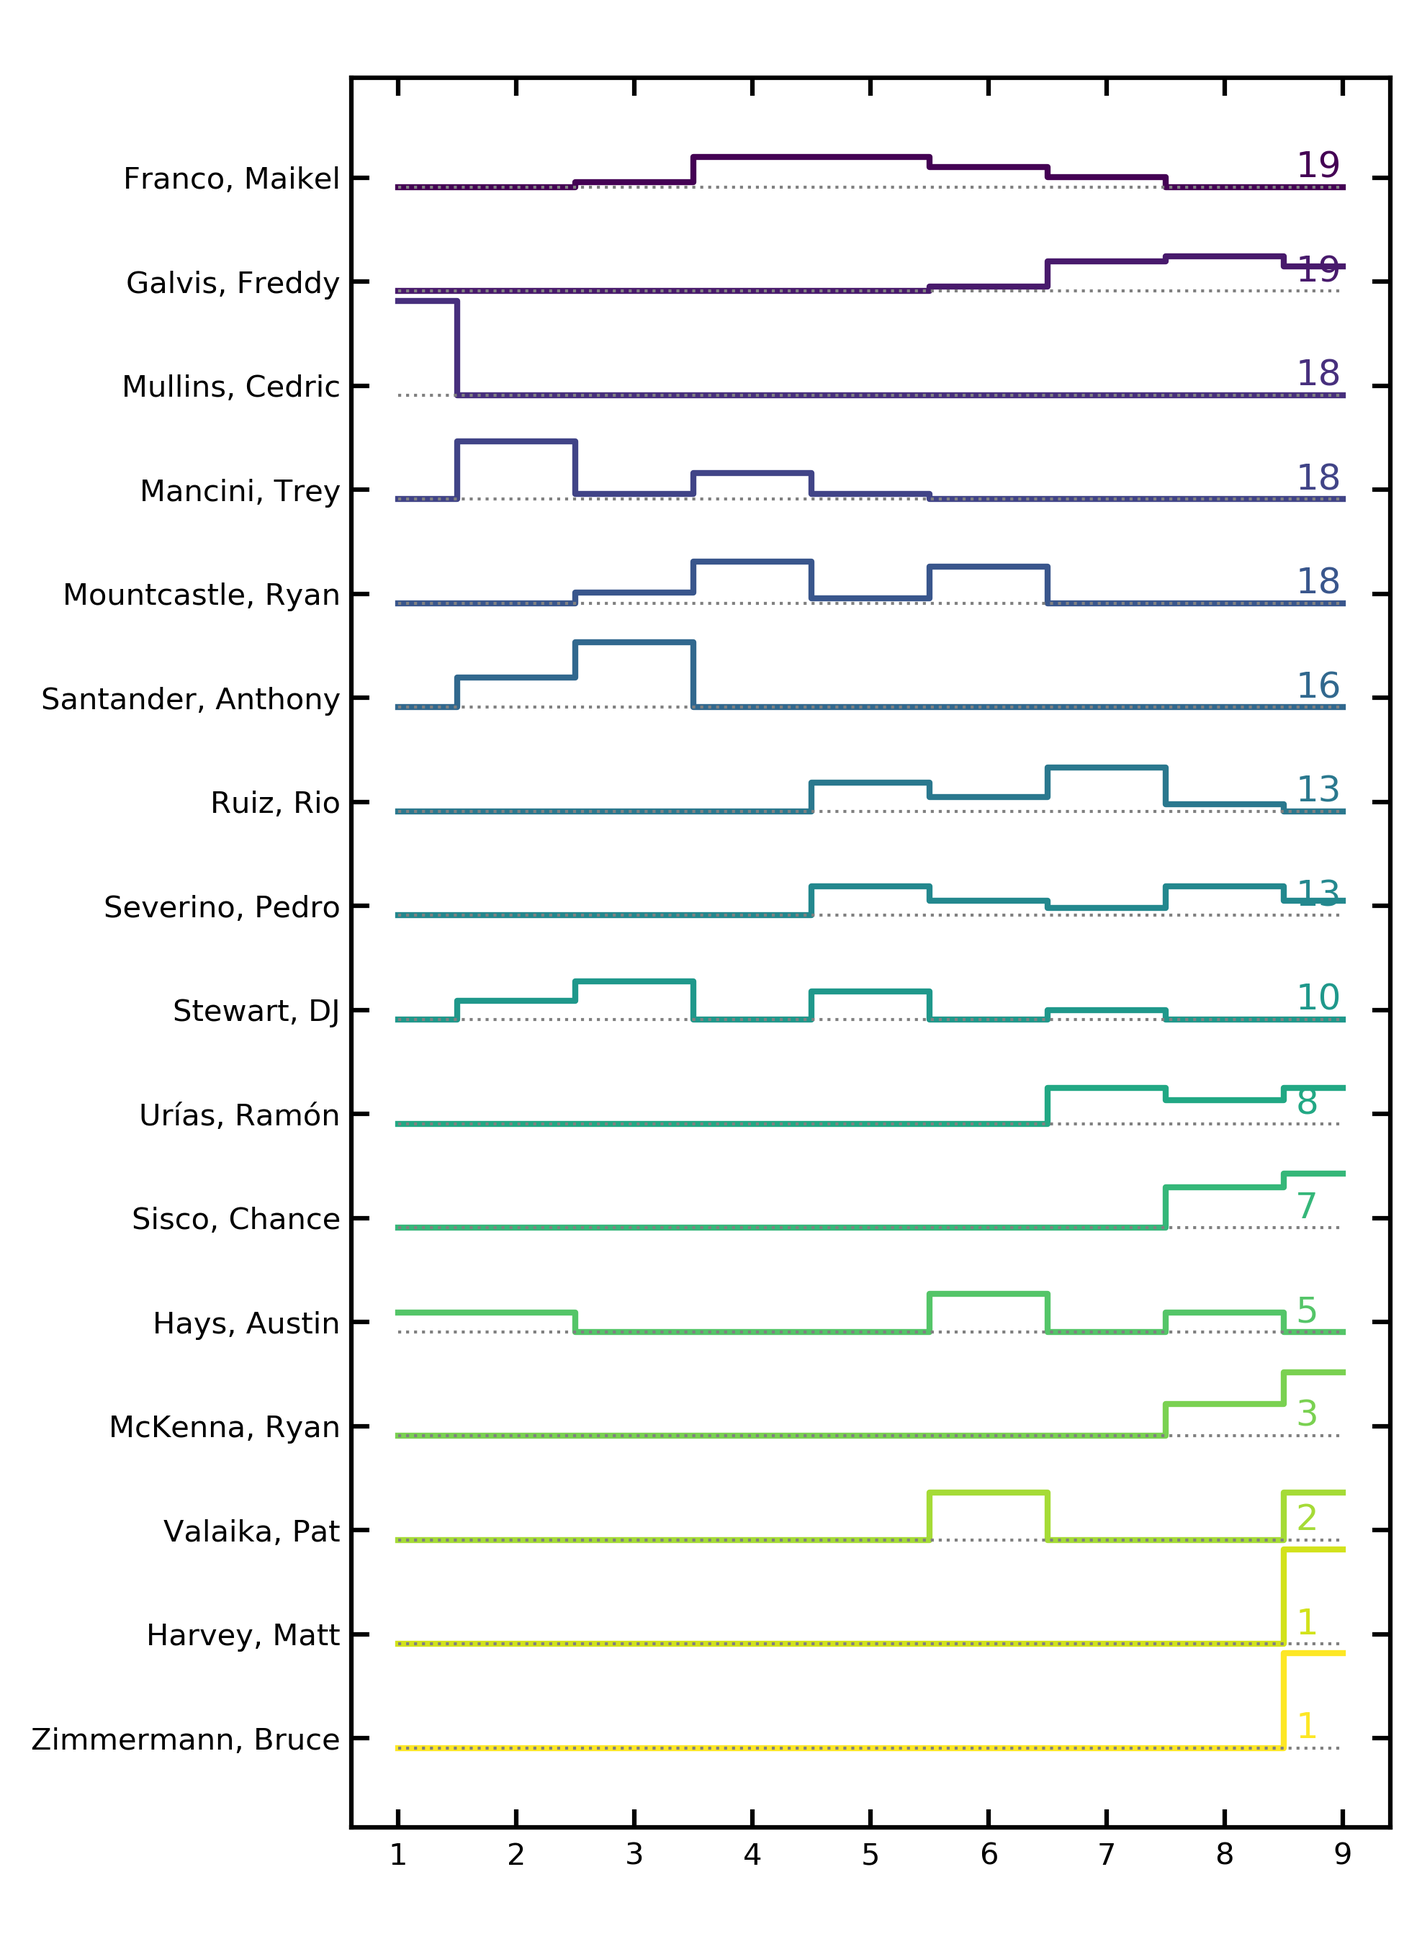
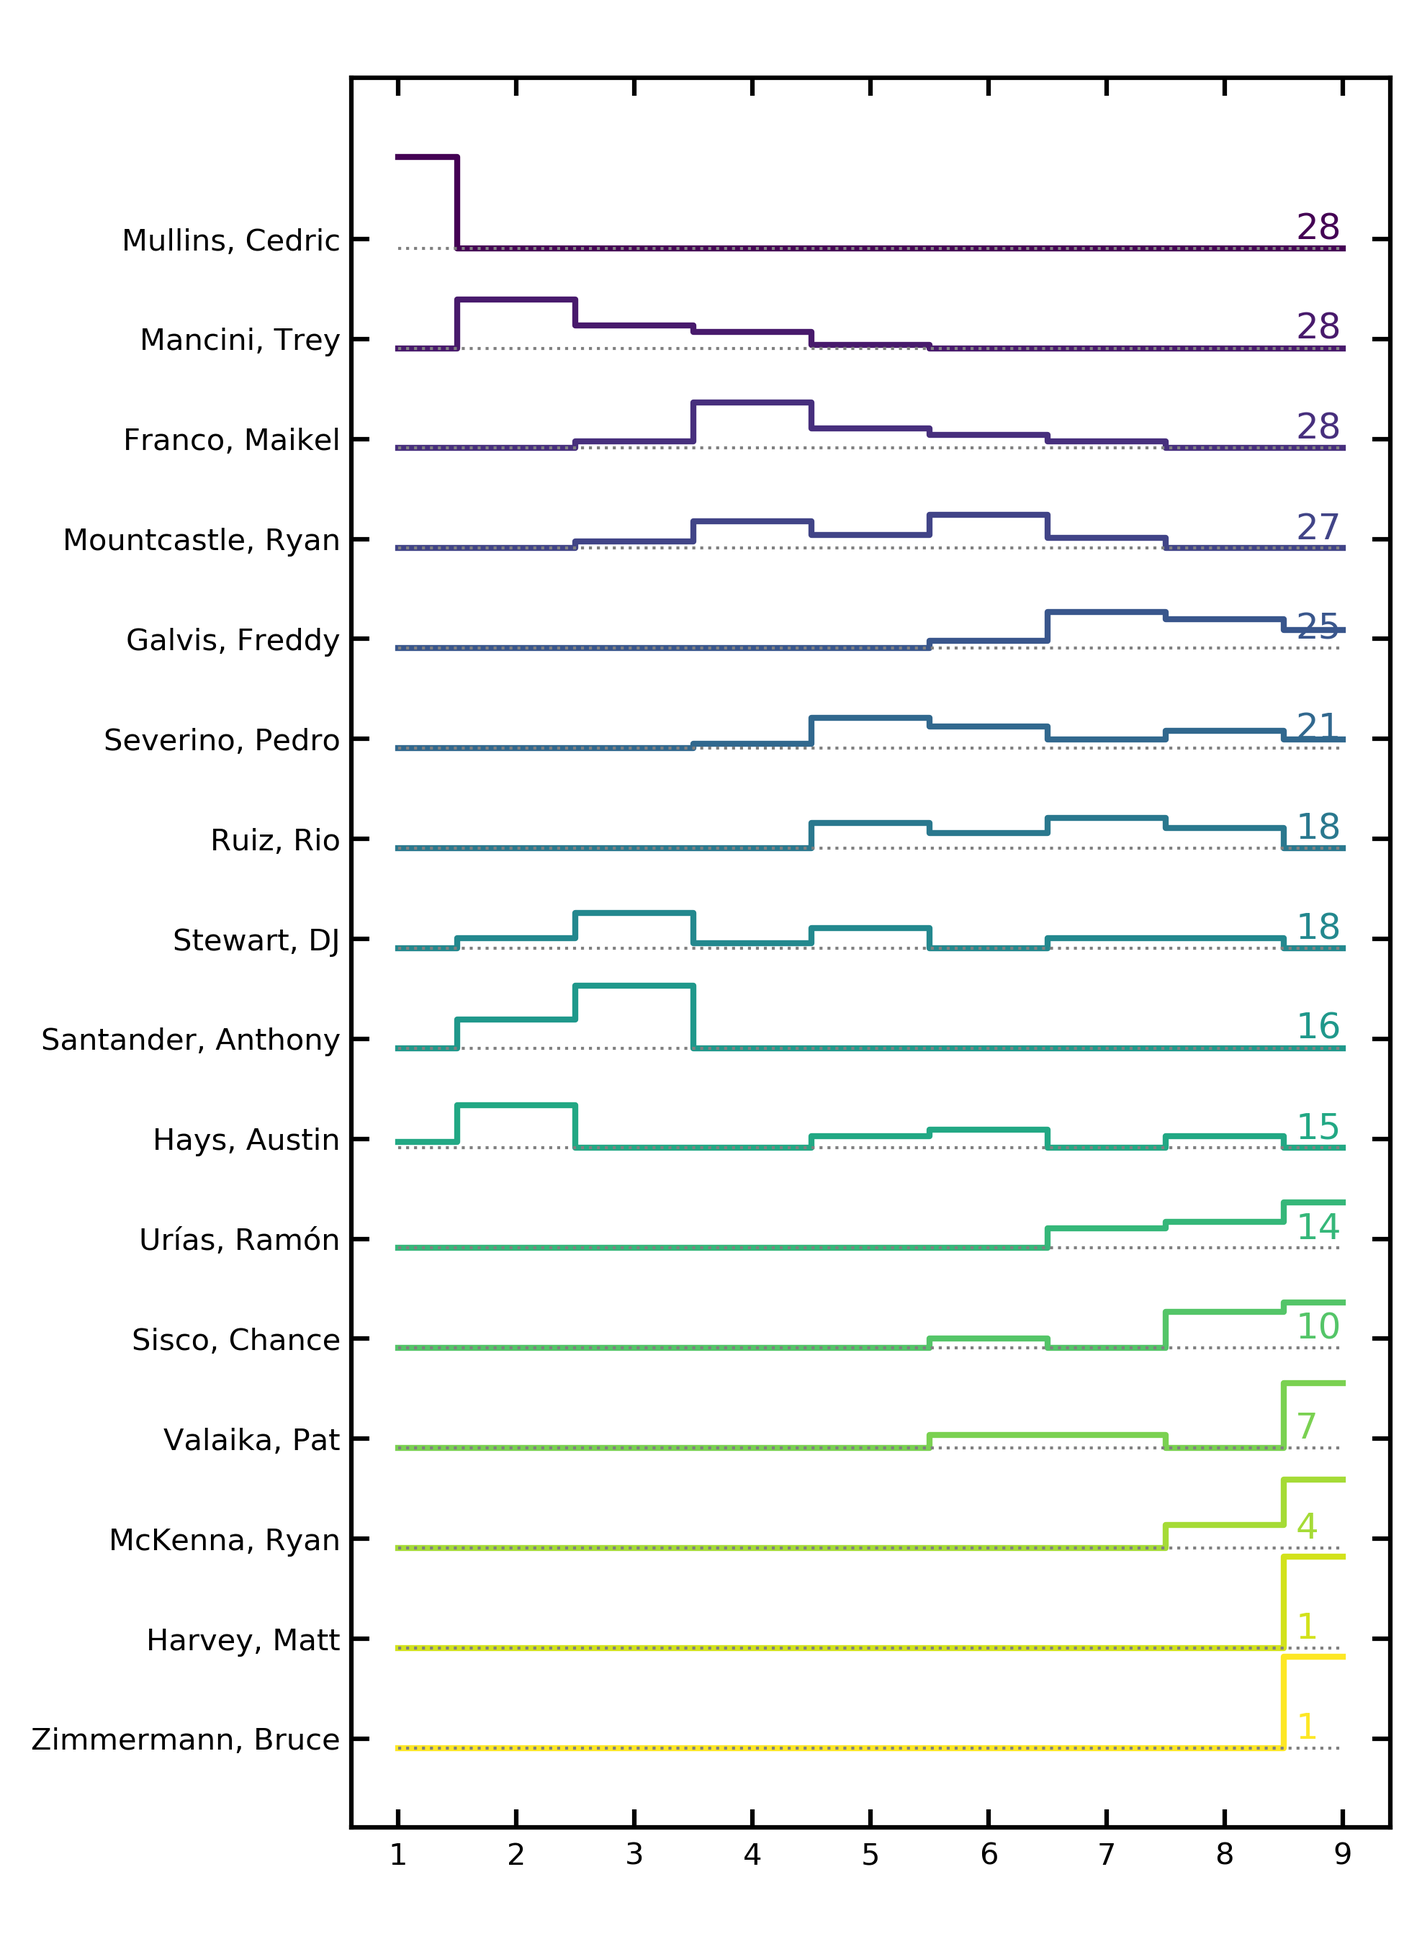
lineup updates

diff --git a/Lineups/lineup2021.html b/Lineups/lineup2021.html
@@ -12,36 +12,36 @@
   <p>For each team, what is the "typical" 2021 lineup?</p>
 <table id="customers">
 <tr><th>Team</th><th>1st</th><th>2nd</th><th>3rd</th><th>4th</th><th>5th</th><th>6th</th><th>7th</th><th>8th</th><th>9th</th><th>Similarity</th><th>First Appeared</th></tr>
-<tr><td><a href="figures/2021LAAorder.png">LAA</a></td><td>Fletcher, David</td><td>Ohtani, Shohei</td><td>Trout, Mike</td><td>Rendon, Anthony</td><td>Walsh, Jared</td><td>Upton, Justin</td><td>Iglesias, José</td><td>Suzuki, Kurt</td><td>Fowler, Dexter</td><td>4.36</td><td>3</td></tr>
-<tr><td><a href="figures/2021HOUorder.png">HOU</a></td><td>Altuve, Jose</td><td>Brantley, Michael</td><td>Bregman, Alex</td><td>Alvarez, Yordan</td><td>Correa, Carlos</td><td>Gurriel, Yuli</td><td>Tucker, Kyle</td><td>Straw, Myles</td><td>Maldonado, Martín</td><td>3.42</td><td>10</td></tr>
-<tr><td><a href="figures/2021OAKorder.png">OAK</a></td><td>Canha, Mark</td><td>Laureano, Ramón</td><td>Lowrie, Jed</td><td>Olson, Matt</td><td>Chapman, Matt</td><td>Piscotty, Stephen</td><td>Brown, Seth</td><td>Andrus, Elvis</td><td>Garcia, Aramis</td><td>2.9</td><td>9</td></tr>
-<tr><td><a href="figures/2021TORorder.png">TOR</a></td><td>Semien, Marcus</td><td>Bichette, Bo</td><td>Guerrero Jr., Vladimir</td><td>Grichuk, Randal</td><td>Biggio, Cavan</td><td>Gurriel Jr., Lourdes</td><td>Tellez, Rowdy</td><td>Kirk, Alejandro</td><td>Palacios, Josh</td><td>3.11</td><td>10</td></tr>
-<tr><td><a href="figures/2021ATLorder.png">ATL</a></td><td>Acuña Jr., Ronald</td><td>Albies, Ozzie</td><td>Freeman, Freddie</td><td>Ozuna, Marcell</td><td>d'Arnaud, Travis</td><td>Swanson, Dansby</td><td>Riley, Austin</td><td>Pache, Cristian</td><td>Anderson, Ian</td><td>3.11</td><td>3</td></tr>
-<tr><td><a href="figures/2021MILorder.png">MIL</a></td><td>Wong, Kolten</td><td>Hiura, Keston</td><td>Yelich, Christian</td><td>Shaw, Travis</td><td>Bradley Jr., Jackie</td><td>Cain, Lorenzo</td><td>Narváez, Omar</td><td>Urías, Luis</td><td>Burnes, Corbin</td><td>2.16</td><td>7</td></tr>
-<tr><td><a href="figures/2021STLorder.png">STL</a></td><td>Edman, Tommy</td><td>Goldschmidt, Paul</td><td>Arenado, Nolan</td><td>DeJong, Paul</td><td>O'Neill, Tyler</td><td>Molina, Yadier</td><td>Carlson, Dylan</td><td>Williams, Justin</td><td>Wainwright, Adam</td><td>4.0</td><td>2</td></tr>
-<tr><td><a href="figures/2021CHCorder.png">CHC</a></td><td>Happ, Ian</td><td>Contreras, Willson</td><td>Rizzo, Anthony</td><td>Bryant, Kris</td><td>Pederson, Joc</td><td>Báez, Javier</td><td>Heyward, Jason</td><td>Bote, David</td><td>Hendricks, Kyle</td><td>5.16</td><td>1</td></tr>
-<tr><td><a href="figures/2021ARIorder.png">ARI</a></td><td>Locastro, Tim</td><td>Calhoun, Kole</td><td>Walker, Christian</td><td>Peralta, David</td><td>Cabrera, Asdrúbal</td><td>Escobar, Eduardo</td><td>Ahmed, Nick</td><td>Vogt, Stephen</td><td>Smith, Riley</td><td>2.79</td><td>9</td></tr>
-<tr><td><a href="figures/2021LADorder.png">LAD</a></td><td>Betts, Mookie</td><td>Seager, Corey</td><td>Turner, Justin</td><td>Smith, Will</td><td>Muncy, Max</td><td>Taylor, Chris</td><td>McKinstry, Zach</td><td>Raley, Luke</td><td>Buehler, Walker</td><td>3.08</td><td>14</td></tr>
-<tr><td><a href="figures/2021SForder.png">SF</a></td><td>La Stella, Tommy</td><td>Yastrzemski, Mike</td><td>Dickerson, Alex</td><td>Belt, Brandon</td><td>Longoria, Evan</td><td>Crawford, Brandon</td><td>Posey, Buster</td><td>Dubón, Mauricio</td><td>Webb, Logan</td><td>2.28</td><td>8</td></tr>
-<tr><td><a href="figures/2021CLEorder.png">CLE</a></td><td>Luplow, Jordan</td><td>Hernandez, Cesar</td><td>Ramírez, José</td><td>Rosario, Eddie</td><td>Reyes, Franmil</td><td>Naylor, Josh</td><td>Bauers, Jake</td><td>Pérez, Roberto</td><td>Giménez, Andrés</td><td>4.5</td><td>17</td></tr>
-<tr><td><a href="figures/2021SEAorder.png">SEA</a></td><td>Haniger, Mitch</td><td>France, Ty</td><td>Seager, Kyle</td><td>Marmolejos, José</td><td>Torrens, Luis</td><td>Moore, Dylan</td><td>Trammell, Taylor</td><td>Haggerty, Sam</td><td>Crawford, J.P.</td><td>4.21</td><td>8</td></tr>
-<tr><td><a href="figures/2021MIAorder.png">MIA</a></td><td>Dickerson, Corey</td><td>Marte, Starling</td><td>Aguilar, Jesús</td><td>Cooper, Garrett</td><td>Anderson, Brian</td><td>Chisholm Jr., Jazz</td><td>Berti, Jon</td><td>Wallach, Chad</td><td>López, Pablo</td><td>3.32</td><td>6</td></tr>
-<tr><td><a href="figures/2021NYMorder.png">NYM</a></td><td>Nimmo, Brandon</td><td>Lindor, Francisco</td><td>Smith, Dominic</td><td>Alonso, Pete</td><td>McNeil, Jeff</td><td>Conforto, Michael</td><td>Davis, J.D.</td><td>McCann, James</td><td>deGrom, Jacob</td><td>3.67</td><td>9</td></tr>
-<tr><td><a href="figures/2021WSHorder.png">WSH</a></td><td>Turner, Trea</td><td>Soto, Juan</td><td>Bell, Josh</td><td>Schwarber, Kyle</td><td>Harrison, Josh</td><td>Castro, Starlin</td><td>Gomes, Yan</td><td>Robles, Victor</td><td>Ross, Joe</td><td>2.12</td><td>14</td></tr>
-<tr><td><a href="figures/2021BALorder.png">BAL</a></td><td>Mullins, Cedric</td><td>Mancini, Trey</td><td>Santander, Anthony</td><td>Mountcastle, Ryan</td><td>Franco, Maikel</td><td>Severino, Pedro</td><td>Ruiz, Rio</td><td>Galvis, Freddy</td><td>Urías, Ramón</td><td>2.89</td><td>6</td></tr>
-<tr><td><a href="figures/2021SDorder.png">SD</a></td><td>Grisham, Trent</td><td>Profar, Jurickson</td><td>Machado, Manny</td><td>Hosmer, Eric</td><td>Myers, Wil</td><td>Cronenworth, Jake</td><td>Pham, Tommy</td><td>Caratini, Victor</td><td>Kim, Ha-Seong</td><td>2.48</td><td>10</td></tr>
-<tr><td><a href="figures/2021PHIorder.png">PHI</a></td><td>McCutchen, Andrew</td><td>Hoskins, Rhys</td><td>Harper, Bryce</td><td>Realmuto, J.T.</td><td>Bohm, Alec</td><td>Gregorius, Didi</td><td>Segura, Jean</td><td>Haseley, Adam</td><td>Nola, Aaron</td><td>4.37</td><td>1</td></tr>
-<tr><td><a href="figures/2021PITorder.png">PIT</a></td><td>Frazier, Adam</td><td>Evans, Phillip</td><td>Reynolds, Bryan</td><td>Moran, Colin</td><td>González, Erik</td><td>Polanco, Gregory</td><td>Stallings, Jacob</td><td>Fowler, Dustin</td><td>Brubaker, JT</td><td>4.18</td><td>4</td></tr>
-<tr><td><a href="figures/2021TEXorder.png">TEX</a></td><td>Kiner-Falefa, Isiah</td><td>Dahl, David</td><td>Gallo, Joey</td><td>García, Adolis</td><td>Lowe, Nate</td><td>Solak, Nick</td><td>Heim, Jonah</td><td>Culberson, Charlie</td><td>Taveras, Leody</td><td>3.35</td><td>12</td></tr>
-<tr><td><a href="figures/2021TBorder.png">TB</a></td><td>Tsutsugo, Yoshi</td><td>Meadows, Austin</td><td>Arozarena, Randy</td><td>Lowe, Brandon</td><td>Díaz, Yandy</td><td>Wendle, Joey</td><td>Adames, Willy</td><td>Phillips, Brett</td><td>Zunino, Mike</td><td>1.88</td><td>7</td></tr>
-<tr><td><a href="figures/2021BOSorder.png">BOS</a></td><td>Hernández, Enrique</td><td>Verdugo, Alex</td><td>Martinez, J.D.</td><td>Bogaerts, Xander</td><td>Devers, Rafael</td><td>Vázquez, Christian</td><td>Gonzalez, Marwin</td><td>Dalbec, Bobby</td><td>Cordero, Franchy</td><td>4.81</td><td>9</td></tr>
-<tr><td><a href="figures/2021CINorder.png">CIN</a></td><td>Winker, Jesse</td><td>Castellanos, Nick</td><td>Votto, Joey</td><td>Suárez, Eugenio</td><td>Moustakas, Mike</td><td>Senzel, Nick</td><td>India, Jonathan</td><td>Barnhart, Tucker</td><td>Castillo, Luis</td><td>4.71</td><td>1</td></tr>
-<tr><td><a href="figures/2021COLorder.png">COL</a></td><td>Hampson, Garrett</td><td>McMahon, Ryan</td><td>Story, Trevor</td><td>Blackmon, Charlie</td><td>Cron, C.J.</td><td>Tapia, Raimel</td><td>Fuentes, Josh</td><td>Nuñez, Dom</td><td>Gomber, Austin</td><td>3.84</td><td>8</td></tr>
-<tr><td><a href="figures/2021KCorder.png">KC</a></td><td>Merrifield, Whit</td><td>Benintendi, Andrew</td><td>Perez, Salvador</td><td>Santana, Carlos</td><td>Soler, Jorge</td><td>Taylor, Michael A.</td><td>Isbel, Kyle</td><td>Alberto, Hanser</td><td>Lopez, Nicky</td><td>4.61</td><td>8</td></tr>
-<tr><td><a href="figures/2021DETorder.png">DET</a></td><td>Grossman, Robbie</td><td>Castro, Willi</td><td>Candelario, Jeimer</td><td>Ramos, Wilson</td><td>Mazara, Nomar</td><td>Schoop, Jonathan</td><td>Núñez, Renato</td><td>Baddoo, Akil</td><td>Greiner, Grayson</td><td>2.25</td><td>10</td></tr>
-<tr><td><a href="figures/2021MINorder.png">MIN</a></td><td>Arraez, Luis</td><td>Polanco, Jorge</td><td>Cruz, Nelson</td><td>Buxton, Byron</td><td>Kepler, Max</td><td>Sanó, Miguel</td><td>Cave, Jake</td><td>Jeffers, Ryan</td><td>Simmons, Andrelton</td><td>2.03</td><td>9</td></tr>
-<tr><td><a href="figures/2021CWSorder.png">CWS</a></td><td>Anderson, Tim</td><td>Eaton, Adam</td><td>Abreu, José</td><td>Moncada, Yoán</td><td>Mercedes, Yermín</td><td>Grandal, Yasmani</td><td>Robert, Luis</td><td>Vaughn, Andrew</td><td>Madrigal, Nick</td><td>3.05</td><td>13</td></tr>
-<tr><td><a href="figures/2021NYYorder.png">NYY</a></td><td>LeMahieu, DJ</td><td>Judge, Aaron</td><td>Hicks, Aaron</td><td>Stanton, Giancarlo</td><td>Torres, Gleyber</td><td>Bruce, Jay</td><td>Sánchez, Gary</td><td>Urshela, Gio</td><td>Frazier, Clint</td><td>2.95</td><td>2</td></tr>
+<tr><td><a href="figures/2021LAAorder.png">LAA</a></td><td>Fletcher, David</td><td>Ohtani, Shohei</td><td>Trout, Mike</td><td>Rendon, Anthony</td><td>Walsh, Jared</td><td>Upton, Justin</td><td>Iglesias, José</td><td>Suzuki, Kurt</td><td>Fowler, Dexter</td><td>4.41</td><td>3</td></tr>
+<tr><td><a href="figures/2021HOUorder.png">HOU</a></td><td>Altuve, Jose</td><td>Brantley, Michael</td><td>Bregman, Alex</td><td>Alvarez, Yordan</td><td>Gurriel, Yuli</td><td>Correa, Carlos</td><td>Tucker, Kyle</td><td>Straw, Myles</td><td>Maldonado, Martín</td><td>3.89</td><td>8</td></tr>
+<tr><td><a href="figures/2021OAKorder.png">OAK</a></td><td>Canha, Mark</td><td>Laureano, Ramón</td><td>Lowrie, Jed</td><td>Olson, Matt</td><td>Chapman, Matt</td><td>Piscotty, Stephen</td><td>Brown, Seth</td><td>Andrus, Elvis</td><td>Garcia, Aramis</td><td>2.93</td><td>9</td></tr>
+<tr><td><a href="figures/2021TORorder.png">TOR</a></td><td>Semien, Marcus</td><td>Bichette, Bo</td><td>Guerrero Jr., Vladimir</td><td>Grichuk, Randal</td><td>Biggio, Cavan</td><td>Gurriel Jr., Lourdes</td><td>Tellez, Rowdy</td><td>Palacios, Josh</td><td>Jansen, Danny</td><td>2.74</td><td>13</td></tr>
+<tr><td><a href="figures/2021ATLorder.png">ATL</a></td><td>Acuña Jr., Ronald</td><td>Freeman, Freddie</td><td>Ozuna, Marcell</td><td>Albies, Ozzie</td><td>d'Arnaud, Travis</td><td>Swanson, Dansby</td><td>Riley, Austin</td><td>Heredia, Guillermo</td><td>Anderson, Ian</td><td>3.62</td><td>23</td></tr>
+<tr><td><a href="figures/2021MILorder.png">MIL</a></td><td>Wong, Kolten</td><td>Vogelbach, Daniel</td><td>Yelich, Christian</td><td>Shaw, Travis</td><td>Bradley Jr., Jackie</td><td>García, Avisaíl</td><td>Narváez, Omar</td><td>Urías, Luis</td><td>Peralta, Freddy</td><td>1.9</td><td>5</td></tr>
+<tr><td><a href="figures/2021STLorder.png">STL</a></td><td>Edman, Tommy</td><td>Goldschmidt, Paul</td><td>Arenado, Nolan</td><td>DeJong, Paul</td><td>O'Neill, Tyler</td><td>Molina, Yadier</td><td>Carlson, Dylan</td><td>Williams, Justin</td><td>Wainwright, Adam</td><td>2.97</td><td>2</td></tr>
+<tr><td><a href="figures/2021CHCorder.png">CHC</a></td><td>Happ, Ian</td><td>Contreras, Willson</td><td>Rizzo, Anthony</td><td>Bryant, Kris</td><td>Pederson, Joc</td><td>Báez, Javier</td><td>Heyward, Jason</td><td>Bote, David</td><td>Davies, Zach</td><td>2.75</td><td>8</td></tr>
+<tr><td><a href="figures/2021ARIorder.png">ARI</a></td><td>Smith, Pavin</td><td>Calhoun, Kole</td><td>Cabrera, Asdrúbal</td><td>Peralta, David</td><td>Kelly, Carson</td><td>Escobar, Eduardo</td><td>Ahmed, Nick</td><td>Heath, Nick</td><td>Kelly, Merrill</td><td>2.52</td><td>22</td></tr>
+<tr><td><a href="figures/2021LADorder.png">LAD</a></td><td>Betts, Mookie</td><td>Seager, Corey</td><td>Turner, Justin</td><td>Muncy, Max</td><td>Taylor, Chris</td><td>McKinstry, Zach</td><td>Raley, Luke</td><td>Barnes, Austin</td><td>Kershaw, Clayton</td><td>3.21</td><td>15</td></tr>
+<tr><td><a href="figures/2021SForder.png">SF</a></td><td>La Stella, Tommy</td><td>Yastrzemski, Mike</td><td>Flores, Wilmer</td><td>Belt, Brandon</td><td>Dickerson, Alex</td><td>Posey, Buster</td><td>Slater, Austin</td><td>Dubón, Mauricio</td><td>Gausman, Kevin</td><td>1.98</td><td>21</td></tr>
+<tr><td><a href="figures/2021CLEorder.png">CLE</a></td><td>Luplow, Jordan</td><td>Hernandez, Cesar</td><td>Ramírez, José</td><td>Rosario, Eddie</td><td>Reyes, Franmil</td><td>Naylor, Josh</td><td>Bauers, Jake</td><td>Pérez, Roberto</td><td>Giménez, Andrés</td><td>3.74</td><td>17</td></tr>
+<tr><td><a href="figures/2021SEAorder.png">SEA</a></td><td>Haniger, Mitch</td><td>France, Ty</td><td>Seager, Kyle</td><td>Marmolejos, José</td><td>White, Evan</td><td>Moore, Dylan</td><td>Trammell, Taylor</td><td>Murphy, Tom</td><td>Crawford, J.P.</td><td>4.24</td><td>15</td></tr>
+<tr><td><a href="figures/2021MIAorder.png">MIA</a></td><td>Dickerson, Corey</td><td>Marte, Starling</td><td>Aguilar, Jesús</td><td>Cooper, Garrett</td><td>Anderson, Brian</td><td>Chisholm Jr., Jazz</td><td>Berti, Jon</td><td>Wallach, Chad</td><td>Rogers, Trevor</td><td>2.52</td><td>12</td></tr>
+<tr><td><a href="figures/2021NYMorder.png">NYM</a></td><td>Nimmo, Brandon</td><td>Lindor, Francisco</td><td>Smith, Dominic</td><td>Alonso, Pete</td><td>Conforto, Michael</td><td>Davis, J.D.</td><td>McNeil, Jeff</td><td>McCann, James</td><td>Stroman, Marcus</td><td>3.35</td><td>16</td></tr>
+<tr><td><a href="figures/2021WSHorder.png">WSH</a></td><td>Stevenson, Andrew</td><td>Harrison, Josh</td><td>Turner, Trea</td><td>Bell, Josh</td><td>Schwarber, Kyle</td><td>Castro, Starlin</td><td>Gomes, Yan</td><td>Robles, Victor</td><td>Corbin, Patrick</td><td>1.81</td><td>15</td></tr>
+<tr><td><a href="figures/2021BALorder.png">BAL</a></td><td>Mullins, Cedric</td><td>Mancini, Trey</td><td>Santander, Anthony</td><td>Franco, Maikel</td><td>Severino, Pedro</td><td>Mountcastle, Ryan</td><td>Stewart, DJ</td><td>Urías, Ramón</td><td>Galvis, Freddy</td><td>2.52</td><td>10</td></tr>
+<tr><td><a href="figures/2021SDorder.png">SD</a></td><td>Tatis Jr., Fernando</td><td>Grisham, Trent</td><td>Machado, Manny</td><td>Hosmer, Eric</td><td>Myers, Wil</td><td>Cronenworth, Jake</td><td>Profar, Jurickson</td><td>Caratini, Victor</td><td>Snell, Blake</td><td>2.78</td><td>23</td></tr>
+<tr><td><a href="figures/2021PHIorder.png">PHI</a></td><td>McCutchen, Andrew</td><td>Hoskins, Rhys</td><td>Harper, Bryce</td><td>Realmuto, J.T.</td><td>Bohm, Alec</td><td>Gregorius, Didi</td><td>Segura, Jean</td><td>Quinn, Roman</td><td>Wheeler, Zack</td><td>3.69</td><td>2</td></tr>
+<tr><td><a href="figures/2021PITorder.png">PIT</a></td><td>Frazier, Adam</td><td>Evans, Phillip</td><td>Reynolds, Bryan</td><td>Moran, Colin</td><td>González, Erik</td><td>Polanco, Gregory</td><td>Stallings, Jacob</td><td>Fowler, Dustin</td><td>Brubaker, JT</td><td>3.88</td><td>4</td></tr>
+<tr><td><a href="figures/2021TEXorder.png">TEX</a></td><td>Kiner-Falefa, Isiah</td><td>Dahl, David</td><td>Gallo, Joey</td><td>García, Adolis</td><td>Lowe, Nate</td><td>Solak, Nick</td><td>Heim, Jonah</td><td>Culberson, Charlie</td><td>Taveras, Leody</td><td>2.8</td><td>12</td></tr>
+<tr><td><a href="figures/2021TBorder.png">TB</a></td><td>Tsutsugo, Yoshi</td><td>Meadows, Austin</td><td>Arozarena, Randy</td><td>Lowe, Brandon</td><td>Díaz, Yandy</td><td>Wendle, Joey</td><td>Adames, Willy</td><td>Phillips, Brett</td><td>Zunino, Mike</td><td>1.7</td><td>7</td></tr>
+<tr><td><a href="figures/2021BOSorder.png">BOS</a></td><td>Hernández, Enrique</td><td>Verdugo, Alex</td><td>Martinez, J.D.</td><td>Bogaerts, Xander</td><td>Devers, Rafael</td><td>Vázquez, Christian</td><td>Gonzalez, Marwin</td><td>Dalbec, Bobby</td><td>Cordero, Franchy</td><td>4.86</td><td>9</td></tr>
+<tr><td><a href="figures/2021CINorder.png">CIN</a></td><td>Winker, Jesse</td><td>Castellanos, Nick</td><td>Votto, Joey</td><td>Suárez, Eugenio</td><td>Moustakas, Mike</td><td>Senzel, Nick</td><td>India, Jonathan</td><td>Barnhart, Tucker</td><td>Castillo, Luis</td><td>3.6</td><td>1</td></tr>
+<tr><td><a href="figures/2021COLorder.png">COL</a></td><td>Tapia, Raimel</td><td>McMahon, Ryan</td><td>Story, Trevor</td><td>Blackmon, Charlie</td><td>Cron, C.J.</td><td>Daza, Yonathan</td><td>Fuentes, Josh</td><td>Nuñez, Dom</td><td>Gray, Jon</td><td>3.21</td><td>17</td></tr>
+<tr><td><a href="figures/2021KCorder.png">KC</a></td><td>Merrifield, Whit</td><td>Santana, Carlos</td><td>Perez, Salvador</td><td>Soler, Jorge</td><td>O'Hearn, Ryan</td><td>Dozier, Hunter</td><td>Benintendi, Andrew</td><td>Taylor, Michael A.</td><td>Lopez, Nicky</td><td>4.15</td><td>18</td></tr>
+<tr><td><a href="figures/2021DETorder.png">DET</a></td><td>Grossman, Robbie</td><td>Candelario, Jeimer</td><td>Cabrera, Miguel</td><td>Schoop, Jonathan</td><td>Castro, Harold</td><td>Goodrum, Niko</td><td>Ramos, Wilson</td><td>Baddoo, Akil</td><td>Jones, JaCoby</td><td>2.34</td><td>29</td></tr>
+<tr><td><a href="figures/2021MINorder.png">MIN</a></td><td>Arraez, Luis</td><td>Donaldson, Josh</td><td>Cruz, Nelson</td><td>Buxton, Byron</td><td>Kirilloff, Alex</td><td>Polanco, Jorge</td><td>Astudillo, Willians</td><td>Cave, Jake</td><td>Jeffers, Ryan</td><td>2.07</td><td>19</td></tr>
+<tr><td><a href="figures/2021CWSorder.png">CWS</a></td><td>Anderson, Tim</td><td>Eaton, Adam</td><td>Moncada, Yoán</td><td>Abreu, José</td><td>Mercedes, Yermín</td><td>Grandal, Yasmani</td><td>Robert, Luis</td><td>Vaughn, Andrew</td><td>Madrigal, Nick</td><td>2.96</td><td>18</td></tr>
+<tr><td><a href="figures/2021NYYorder.png">NYY</a></td><td>LeMahieu, DJ</td><td>Judge, Aaron</td><td>Hicks, Aaron</td><td>Stanton, Giancarlo</td><td>Torres, Gleyber</td><td>Odor, Rougned</td><td>Sánchez, Gary</td><td>Urshela, Gio</td><td>Gardner, Brett</td><td>2.68</td><td>9</td></tr>
 </table>
 </body>
 </html>
